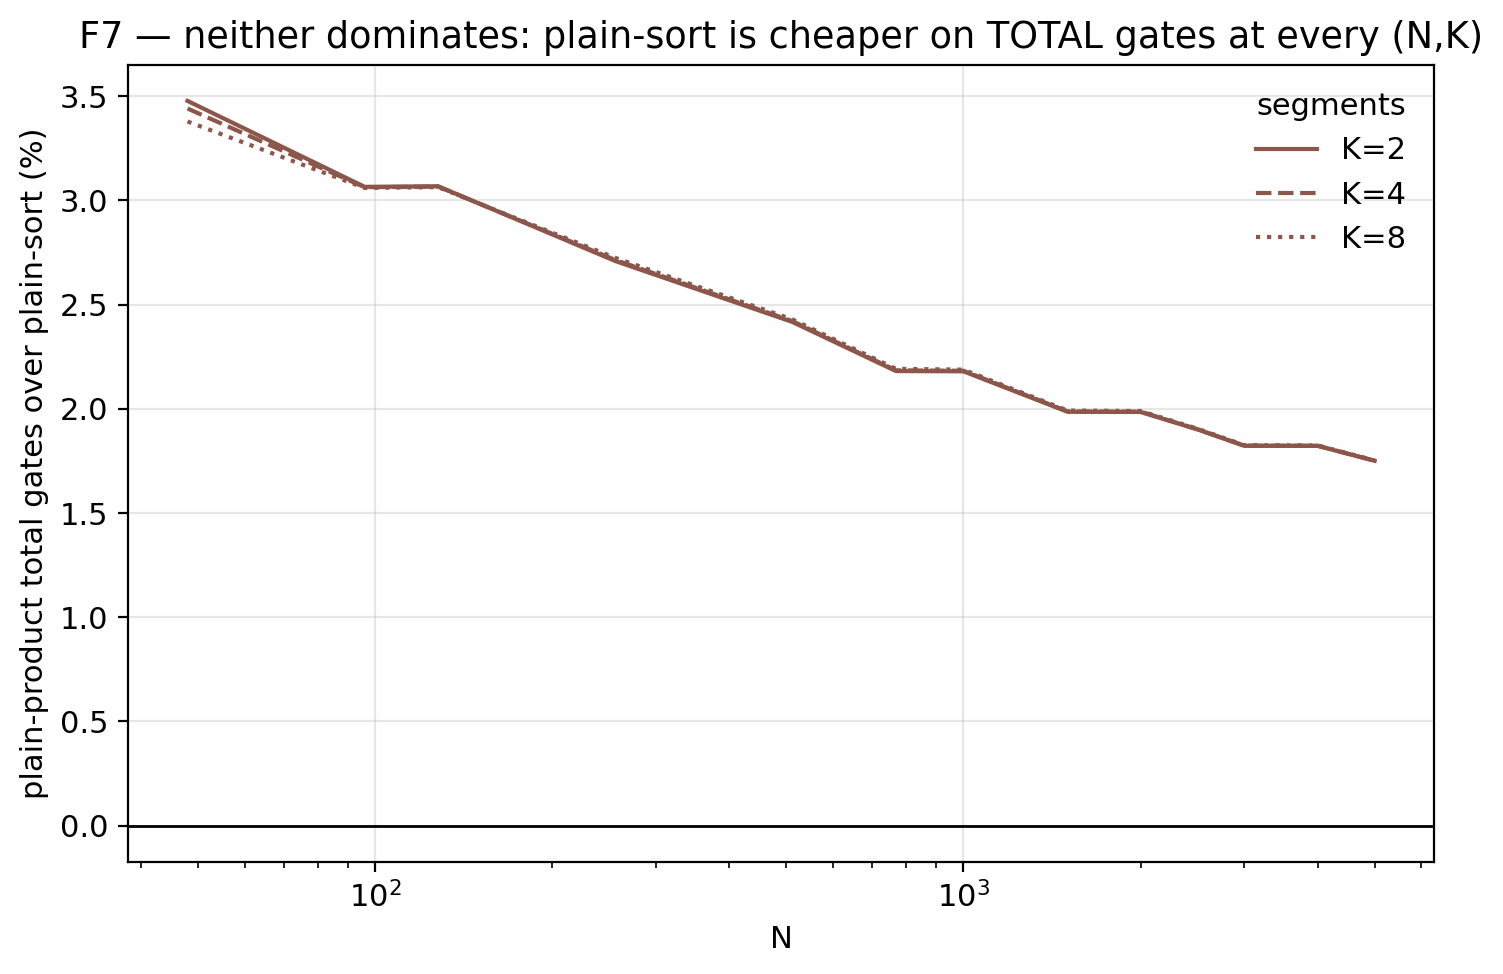
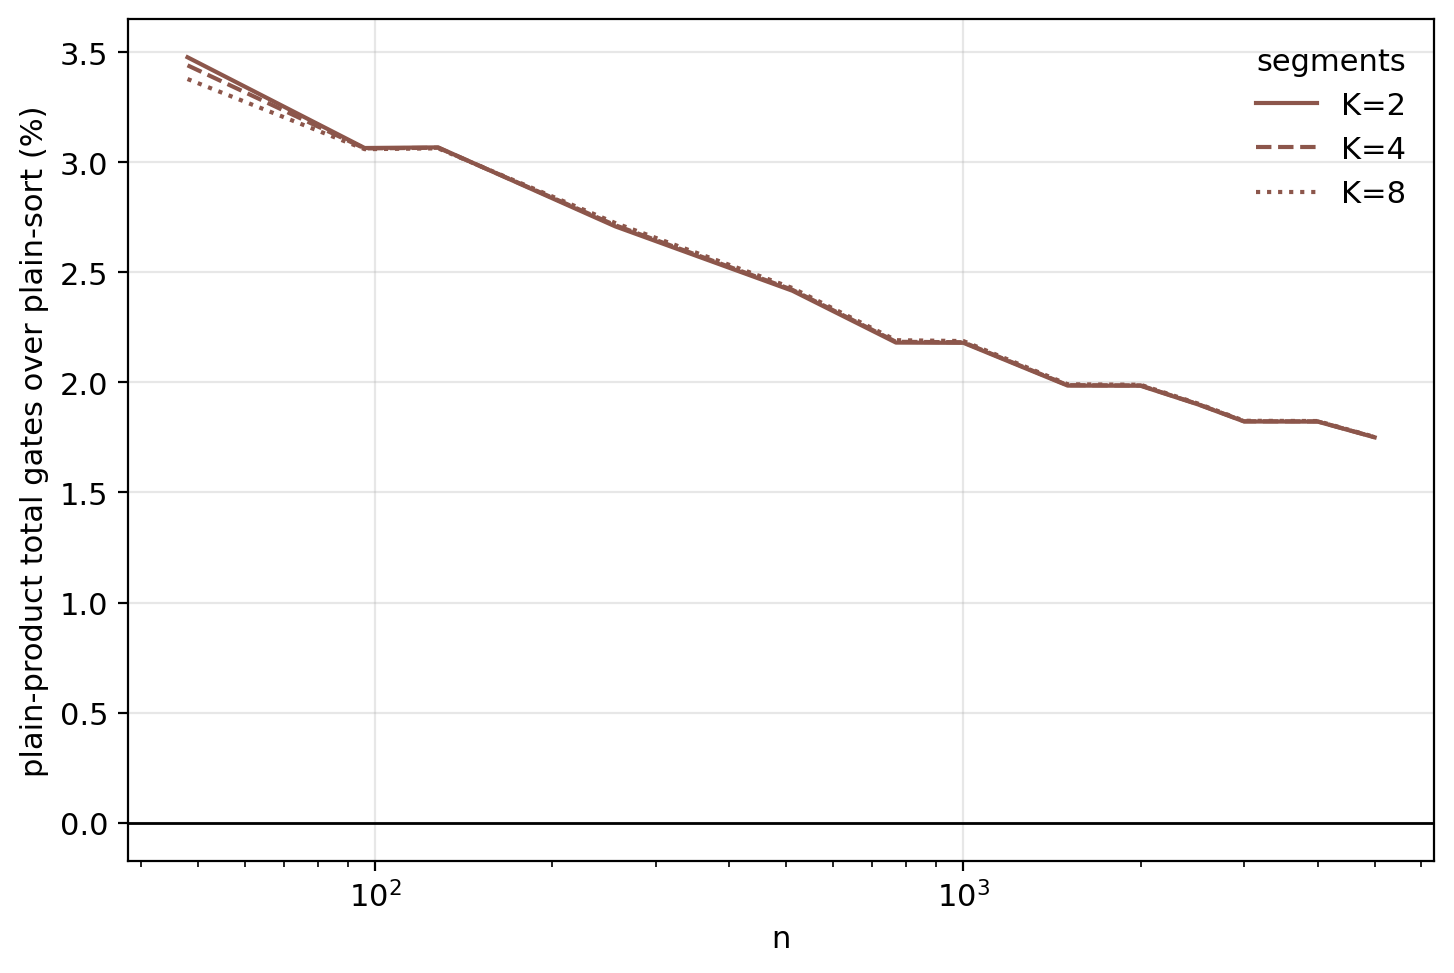
Ch6: draft §6.6 (equal-privacy comparisons — five variants reduce to three)
§6.6.1 Within a Class: read by privacy class (control 1). Disclosing (plain):
neither dominates -- plain-sort +2% cheaper on gates (fig 06), plain-product
wins parallelism/memory. Computational (committed): the ordering reverses --
committed-product is ~4% cheaper and 6.5x vs 3.8x parallel, dominating
committed-sort on cost and time; committed-sort holds only the exact-coverage
edge. Structural (flat, recursion): a fork in kind, cheap-and-walled vs
dear-and-scaling.

§6.6.2 The Price of Privacy: the commit premium splits by mechanism -- ~0.3%
for product, ~6-7% for sort. So committed-product dominates both plain variants
(plain-product at +0.3% with more privacy; plain-sort at +2% gates but losing
parallelism, memory, and privacy). The deployable frontier collapses from five
to three -- flat, committed-product, recursion -- the three pick-two corners.

Fig 06 relabeled (lowercase n, in-figure title dropped).

diff --git a/pipeline/plot_thesis_figures.py b/pipeline/plot_thesis_figures.py
@@ -259,9 +259,9 @@ def fig_f7():
         ratio=[100*(HIER["plain-product"][(n,k)]["total"]/HIER["plain-sort"][(n,k)]["total"]-1) for n in xs]
         ax.plot(xs,ratio,ls,color="#8c564b",lw=1.5,label=f"K={k}")
     ax.axhline(0,color="k",lw=1)
-    ax.set_xscale("log"); ax.set_xlabel("N")
+    ax.set_xscale("log"); ax.set_xlabel("n")
     ax.set_ylabel("plain-product total gates over plain-sort (%)")
-    ax.set_title("F7 — neither dominates: plain-sort is cheaper on TOTAL gates at every (N,K)")
+    # No in-figure title: caption carries it.
     ax.legend(title="segments")
     save(fig, "06_F7_sort_not_dominated")
 